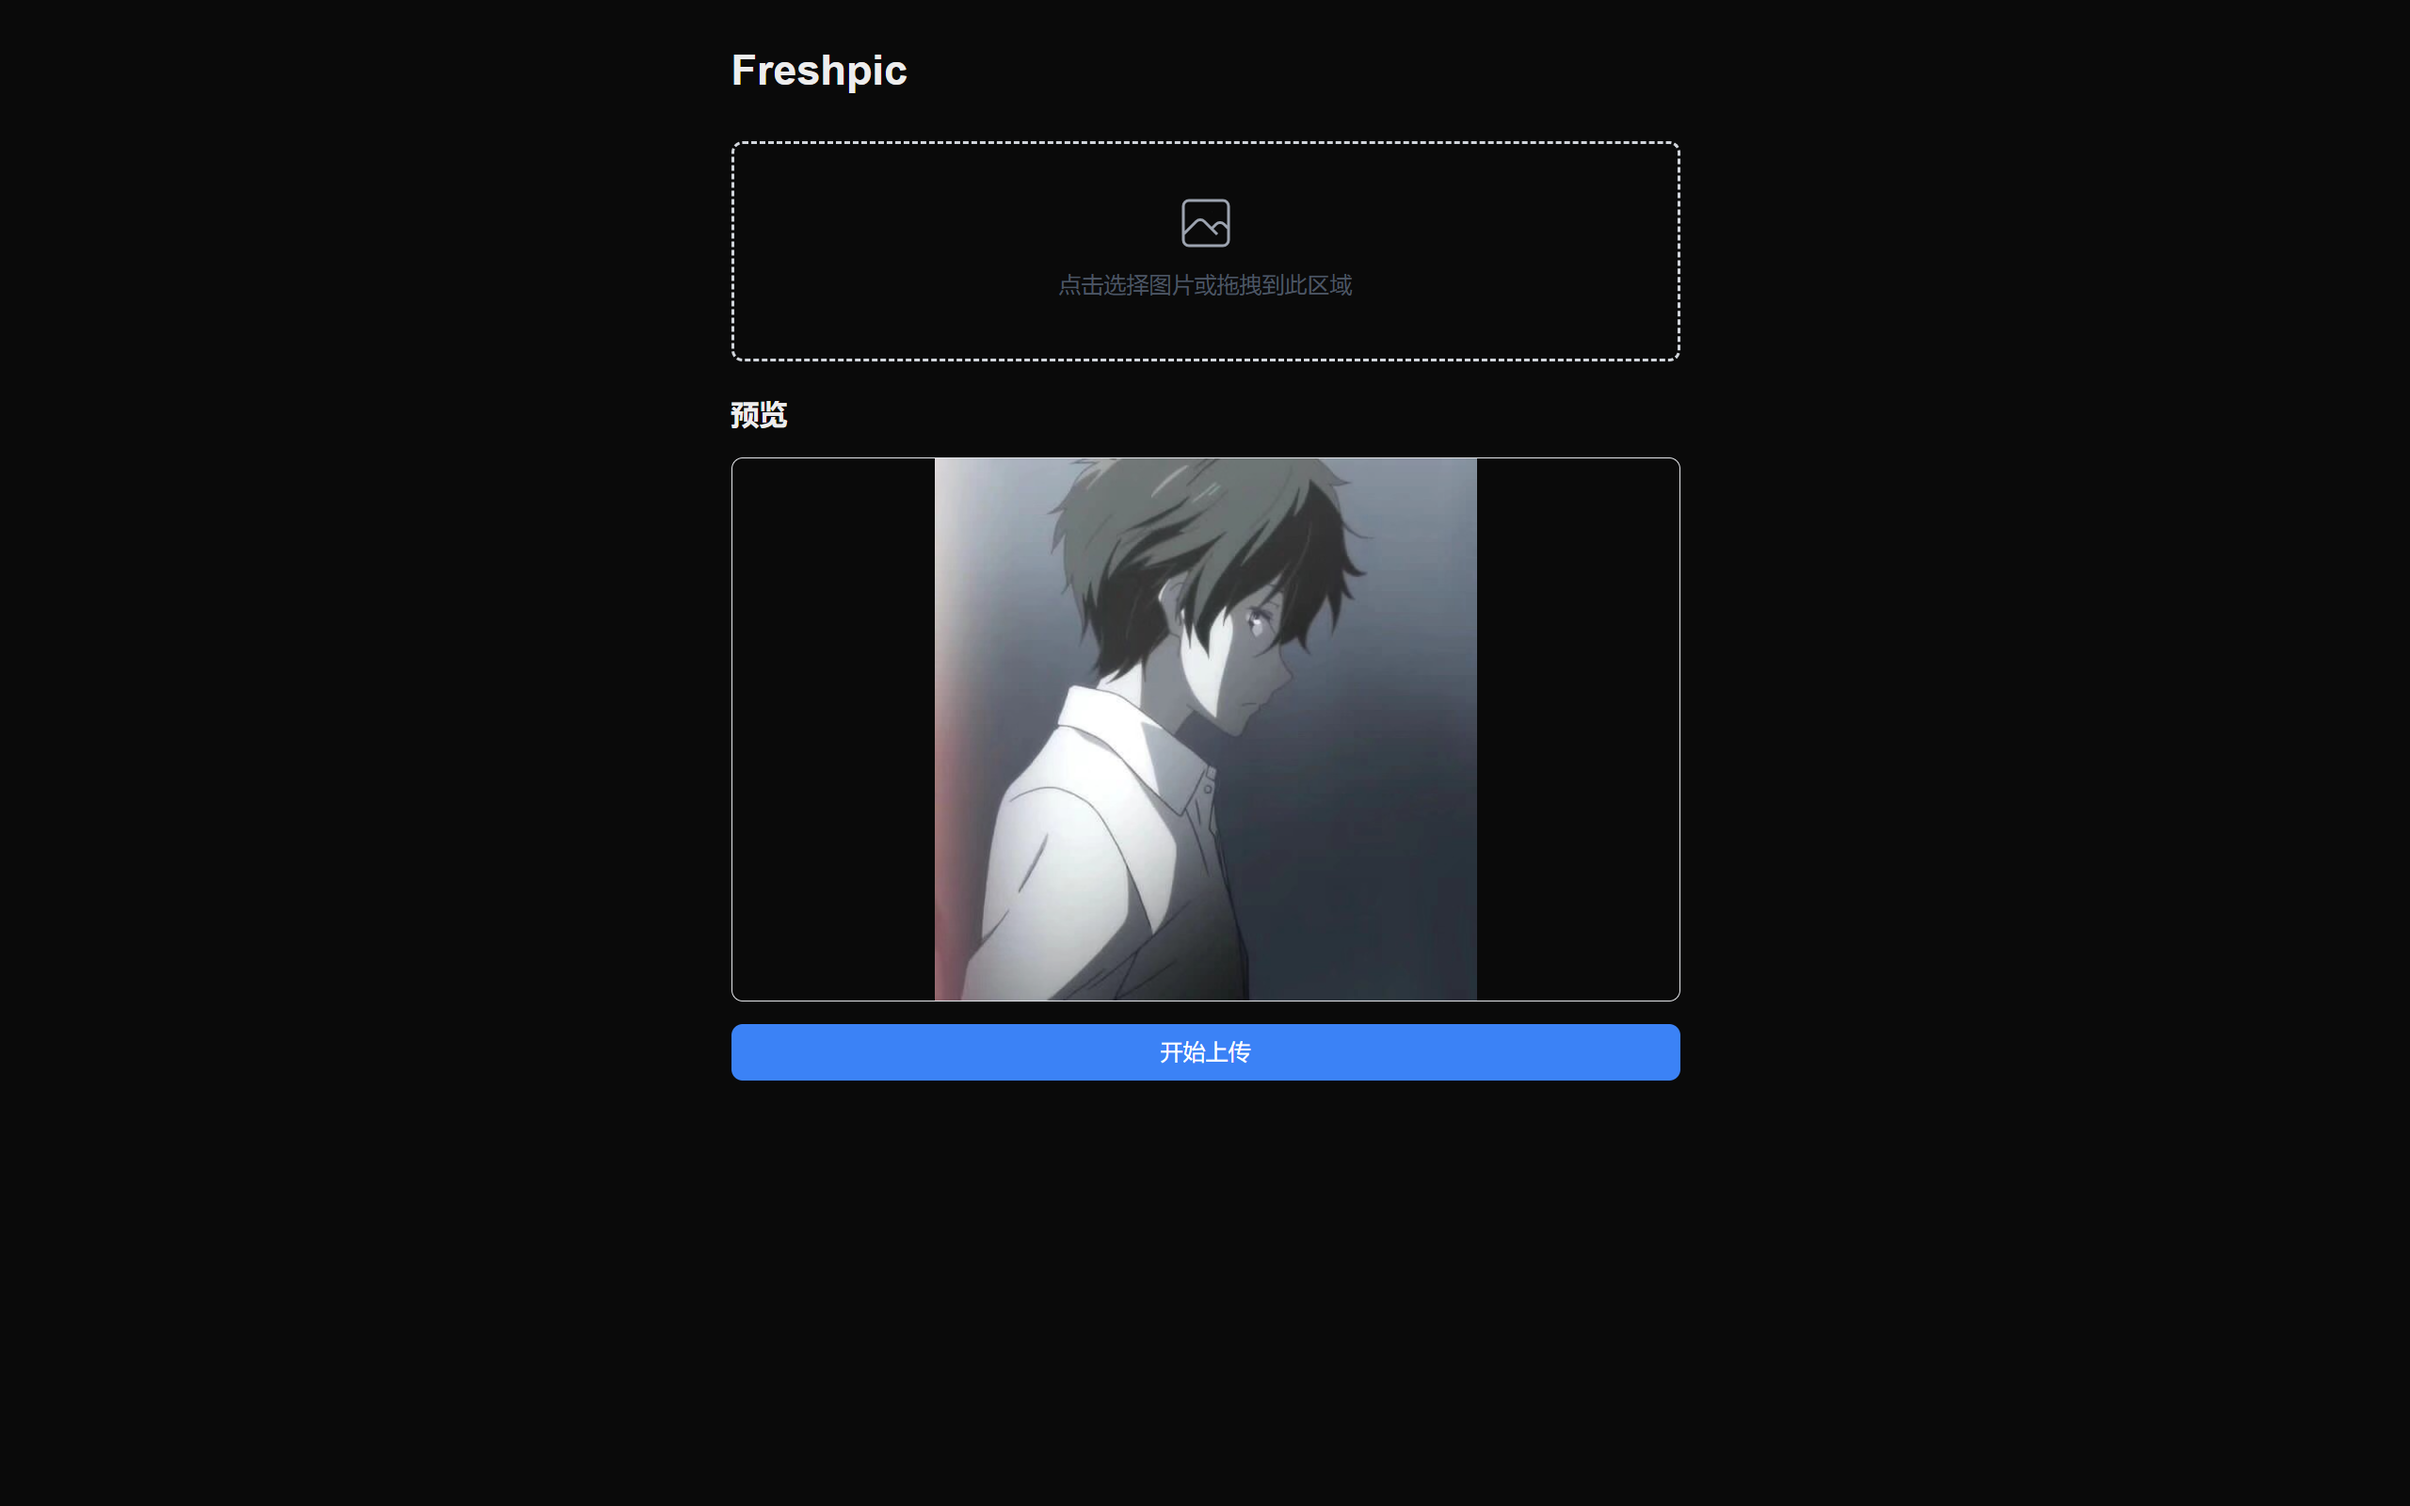
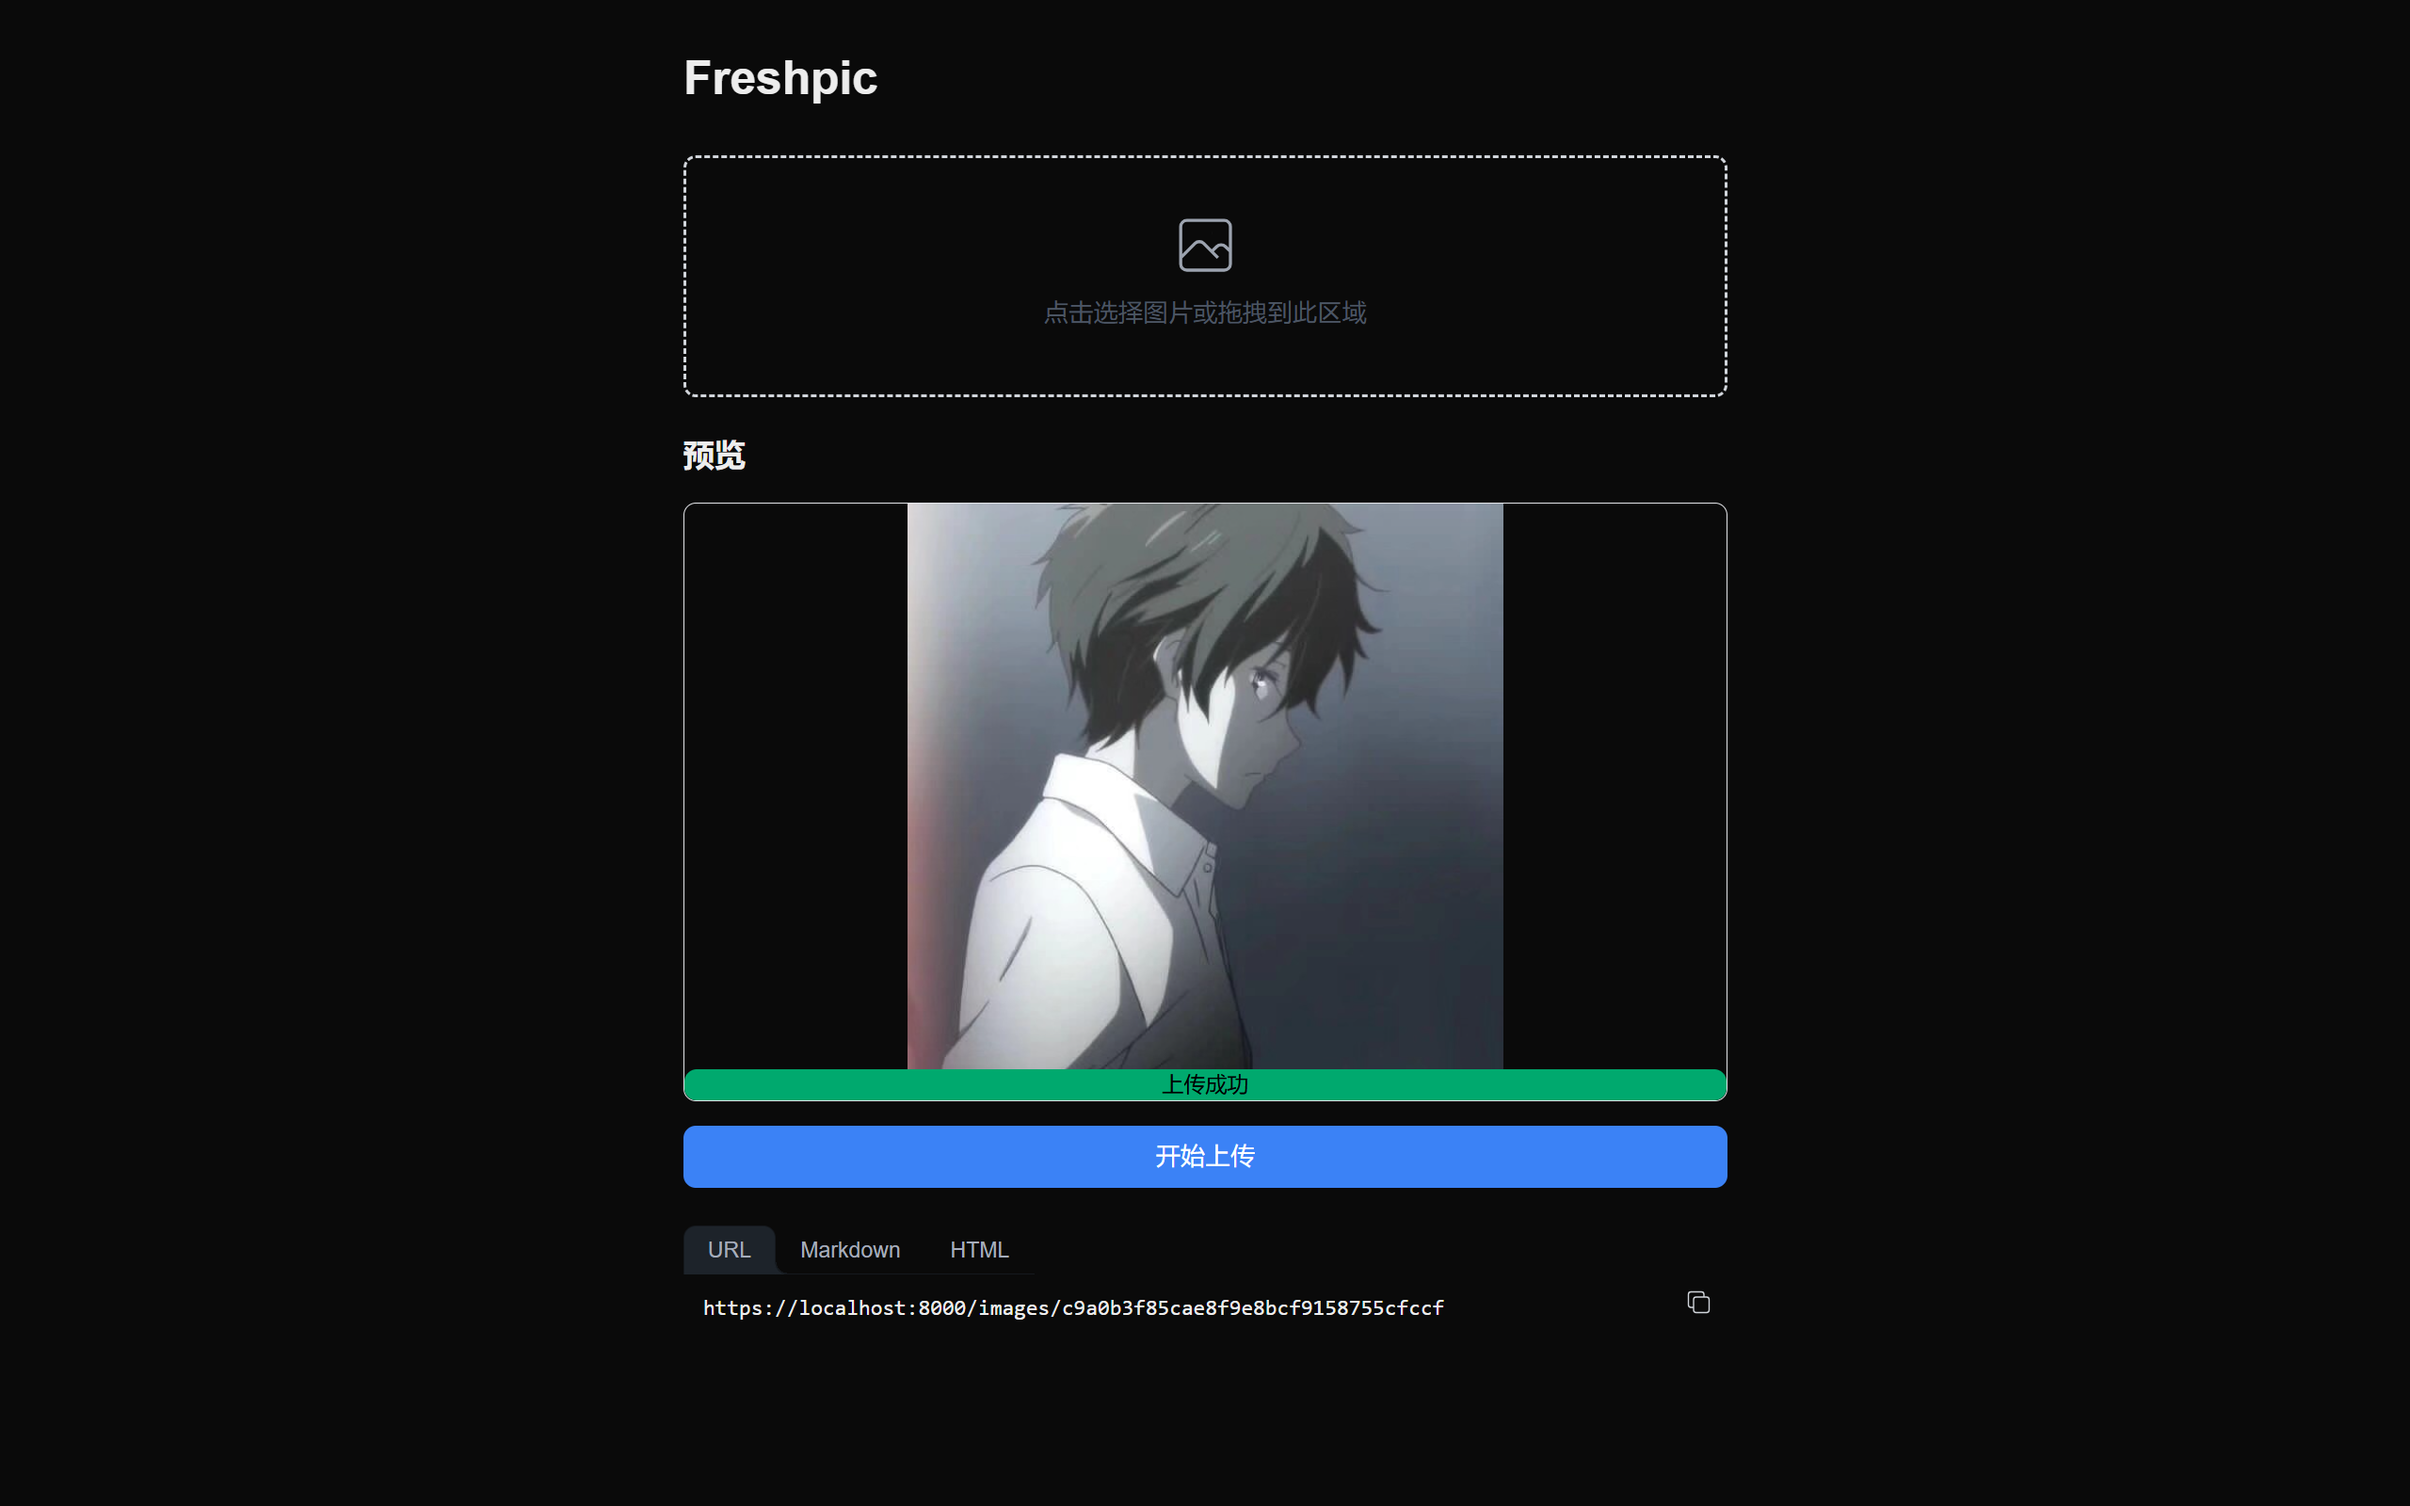
feat: upload 优化URL数据显示

diff --git a/islands/Upload.tsx b/islands/Upload.tsx
@@ -94,6 +94,27 @@ export default function Upload() {
     }
   };
 
+  const URLparse = [
+    {
+      tabname: "URL",
+      parse: (url?: string, _name?: string): string => {
+        return `${url}`;
+      },
+    },
+    {
+      tabname: "Markdown",
+      parse: (url?: string, name?: string): string => {
+        return `![${name}](${url})`;
+      },
+    },
+    {
+      tabname: "HTML",
+      parse: (url?: string, name?: string): string => {
+        return `<img src="${url}" alt="${name}" title="${name}" />`;
+      },
+    },
+  ];
+
   return (
     <main className="min-h-screen p-8 flex flex-col items-center">
       <div className="w-full max-w-2xl">
@@ -140,12 +161,21 @@ export default function Upload() {
         {preview.value && (
           <div className="mt-6">
             <h2 className="text-xl font-semibold mb-4">预览</h2>
-            <div className="border rounded-lg overflow-hidden">
+            <div className="relative border rounded-lg overflow-hidden">
               <img
                 src={preview.value}
                 alt="预览图片"
                 className="w-full h-auto object-contain max-h-96"
               />
+              <div
+                className={`${uploadResult.value ?? "hidden"} badge ${
+                  uploadResult.value?.success ? "badge-success" : "badge-error"
+                } gap-2 absolute bottom-0 left-0 right-0 w-full a-[2] rounded-lg`}
+              >
+                {uploadResult.value?.success
+                  ? "上传成功"
+                  : `上传失败:${uploadResult.value?.message}`}
+              </div>
             </div>
 
             <div className="space-y-4">
@@ -170,44 +200,58 @@ export default function Upload() {
                 </div>
               )}
             </div>
-            {uploadResult.value && (uploadResult.value.success
-              ? (
-                <div className="mt-4 p-4 rounded-md flex text-green-700 items-center justify-between">
-                  <div className="max-w-[200px] sm:max-w-[100%]">
-                    <p className="mb-1">
-                      {`${uploadResult.value.name}:${uploadResult.value.message}`}
-                    </p>
-                    <div className="flex items-center">
-                      <span className="mr-2">URL:</span>
-                      <a
-                        href={uploadResult.value.url}
-                        target="_blank"
-                        className="text-blue-500 truncate max-w-[200px] sm:max-w-max"
+            {uploadResult.value?.success && (
+              <div role="tablist" className="tabs tabs-lifted mt-6">
+                {URLparse.map((e) => (
+                  <>
+                    <input
+                      type="radio"
+                      name="my_tabs_1"
+                      role="tab"
+                      className="tab"
+                      aria-label={e.tabname}
+                      defaultChecked={e.tabname === "URL"}
+                    />
+                    <div
+                      role="tabpanel"
+                      className="tab-content p-3 relative rounded-lg font-mono overflow-x-auto"
+                    >
+                      <button
+                        onClick={() => {
+                          navigator.clipboard.writeText(
+                            e.parse(
+                              uploadResult.value?.url,
+                              uploadResult.value?.name,
+                            ),
+                          );
+                        }}
+                        className="absolute right-2 top-2 rounded   hover:bg-gray-600 focus:outline-none focus:ring-2 focus:ring-gray-500"
                       >
-                        {uploadResult.value.url}
-                      </a>
+                        <svg
+                          xmlns="http://www.w3.org/2000/svg"
+                          className="h-5 w-5 text-gray-300"
+                          fill="none"
+                          viewBox="0 0 24 24"
+                          stroke="currentColor"
+                        >
+                          <path
+                            strokeLinecap="round"
+                            strokeLinejoin="round"
+                            strokeWidth={2}
+                            d="M8 16H6a2 2 0 01-2-2V6a2 2 0 012-2h8a2 2 0 012 2v2m-6 12h8a2 2 0 002-2v-8a2 2 0 00-2-2h-8a2 2 0 00-2 2v8a2 2 0 002 2z"
+                          />
+                        </svg>
+                      </button>
+                      <pre className="overflow-x-auto text-sm">
+                        <code >
+                          {e.parse(uploadResult.value?.url, uploadResult.value?.name)}
+                        </code>
+                      </pre>
                     </div>
-                  </div>
-                  <button
-                    onClick={() => {
-                      if (uploadResult.value?.url) {
-                        navigator.clipboard.writeText(uploadResult.value.url);
-                        alert("URL 已复制到剪贴板");
-                      }
-                    }}
-                    className="bg-blue-500 hover:bg-blue-600 text-white px-3 py-1 rounded-lg sm:text-base text-sm"
-                  >
-                    复制
-                  </button>
-                </div>
-              )
-              : (
-                <div className="mt-4 p-4 rounded-md text-red-700 text-center">
-                  <a className="mr-2 ">
-                    {`上传失败！${uploadResult.value?.message}`}
-                  </a>
-                </div>
-              ))}
+                  </>
+                ))}
+              </div>
+            )}
           </div>
         )}
       </div>

diff --git a/routes/index.tsx b/routes/index.tsx
@@ -1,12 +1,4 @@
-import { FreshContext, Handlers } from "$fresh/server.ts";
 import Upload  from "../islands/Upload.tsx";
-
-export const handler: Handlers = {
-  async GET(_req: Request, ctx: FreshContext) {
-    const resp = await ctx.render();
-    return resp;
-  },
-};
 
 export default function Home() {
   return <Upload />;

diff --git a/tailwind.config.ts b/tailwind.config.ts
@@ -1,7 +1,12 @@
 import { type Config } from "tailwindcss";
+import daisyui from "daisyui"
 
 export default {
   content: [
     "{routes,islands,components}/**/*.{ts,tsx,js,jsx}",
   ],
+  plugins: [
+    // deno-lint-ignore no-explicit-any
+    daisyui as any
+  ]
 } satisfies Config;
